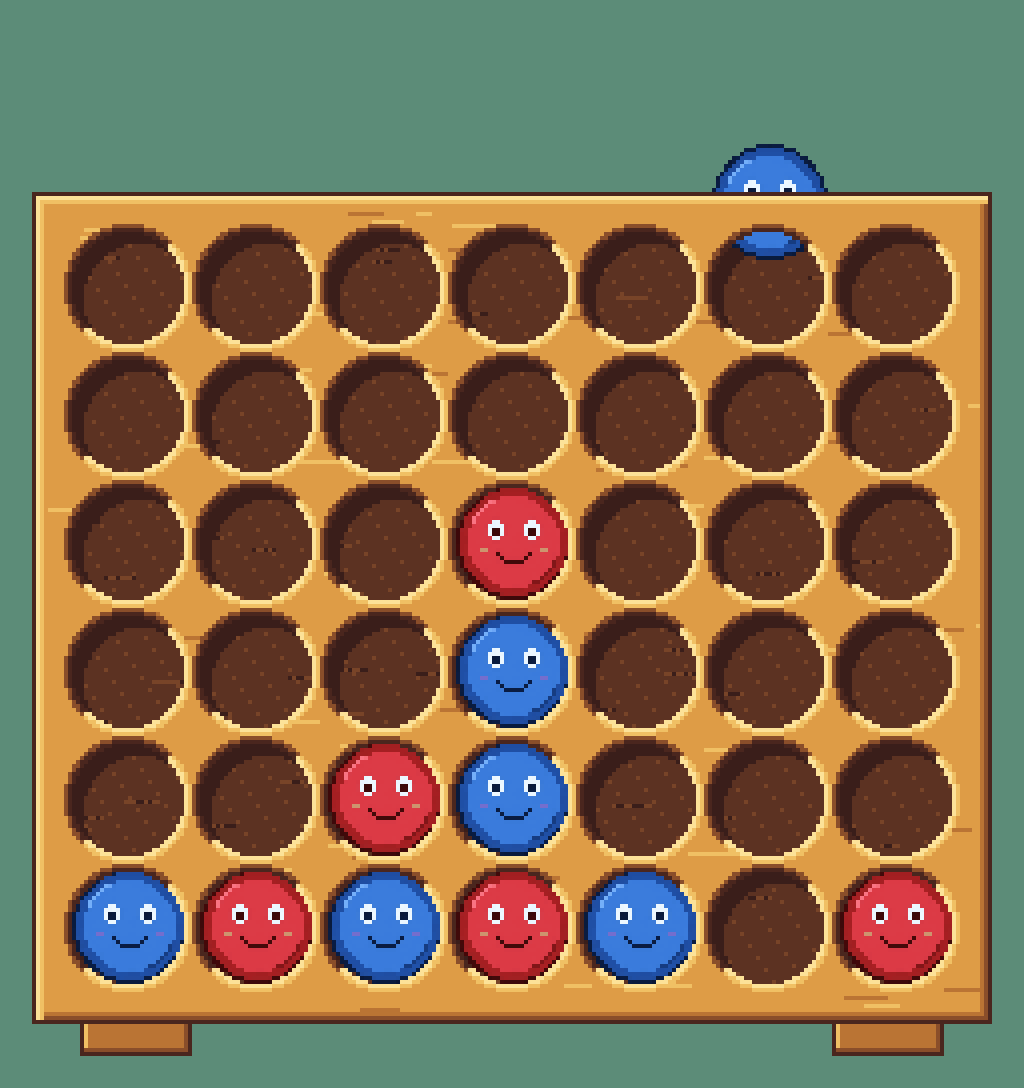
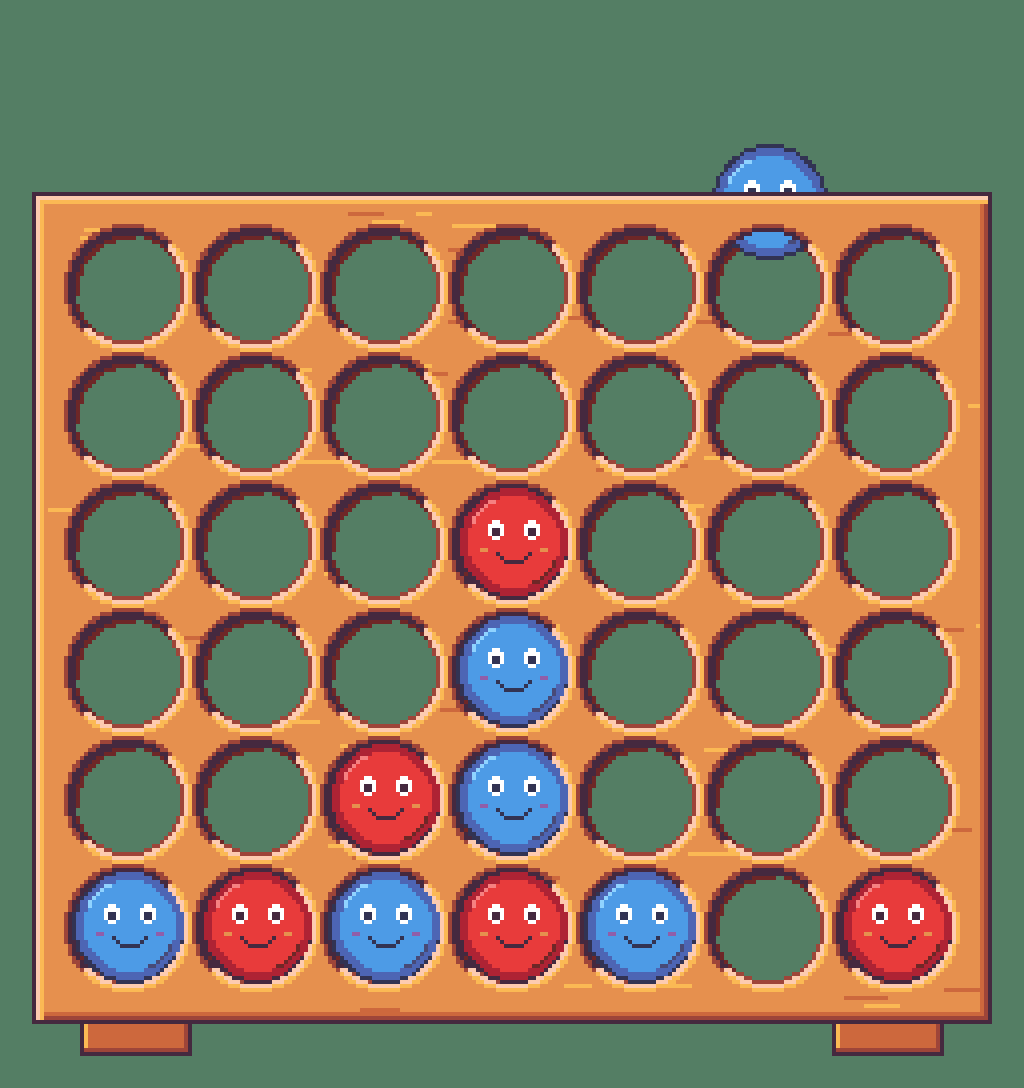
Art A: Resurrect 64 board, transparent holes with shaded rim
Honey wood ramp moved onto Resurrect 64. The back layer is now transparent
except a 1-2 px inner wall inside each hole (shaded upper left, lit lower
right), so the biome background shows through empty holes.

diff --git a/art/board/make_board.py b/art/board/make_board.py
@@ -10,13 +10,19 @@ Outputs (game pixels, shown at whole-number scale on the 270x480 pixel layer):
 Layout: 7x6 grid of 32 px cells starting at GRID_ORIGIN (8, 8); hole centre of cell
 (c, r) = (8 + 32c + 16, 8 + 32r + 16); hole diameter 28 px. The panel is 240x208,
 plus 8 px feet below it that stand on the table. Light comes from the top left.
-Honey wood colours (Sean, 2026-11-11).
+Honey wood colours (Sean, 2026-11-11), all from Resurrect 64 (Art pass A, 2026-11-19).
+Holes are transparent in both layers so the biome background shows through
+(Sean, 2026-11-13); the back layer only holds a thin shaded inner wall in each hole.
 """
 import math
 import os
 import random
+import sys
 
 from PIL import Image
+
+sys.path.insert(0, os.path.join(os.path.dirname(os.path.abspath(__file__)), "..", "palette"))
+from resurrect64 import hexc  # noqa: E402
 
 COLS, ROWS, CELL = 7, 6, 32
 BORDER = 8
@@ -27,17 +33,17 @@ FOOT_H = 8
 W, H = PANEL_W, PANEL_H + FOOT_H  # 240 x 216
 HOLE_R = 14.0
 
-# Honey wood ramp, dark -> light (hue shifts warmer/redder in shadow).
-OUTLINE = (74, 38, 30, 255)
-SHADOW = (138, 78, 42, 255)
-MID = (186, 116, 52, 255)
-BASE = (222, 156, 70, 255)
-LIGHT = (240, 192, 100, 255)
-HIGHLIGHT = (252, 226, 152, 255)
-# Back panel: the inside of the board, seen through the holes behind the Goobs.
-BACK_DEEP = (58, 30, 26, 255)
-BACK_DARK = (92, 50, 34, 255)
-BACK_MID = (120, 68, 40, 255)
+# Honey wood ramp, dark -> light (hue shifts warmer/redder in shadow), Resurrect 64.
+OUTLINE = hexc("45293f")
+SHADOW = hexc("9e4539")
+MID = hexc("cd683d")
+BASE = hexc("e6904e")
+LIGHT = hexc("fbb954")
+HIGHLIGHT = hexc("fdcbb0")
+# Inner wall of each hole, seen behind the Goobs: shaded on the upper left, lit on the lower right.
+WALL_DEEP = hexc("45293f")
+WALL_DARK = hexc("6e2727")
+WALL_LIT = hexc("9e4539")
 
 OUT_DIR = "assets/board"
 PREVIEW = "art/board/board_preview4x.png"
@@ -121,30 +127,25 @@ def make_front():
 
 
 def make_back():
+    """Transparent except a 1-2 px inner wall just inside each hole's rim."""
     img = Image.new("RGBA", (W, H), (0, 0, 0, 0))
     px = img.load()
-    rng = random.Random(9)
-    for y in range(1, PANEL_H - 1):
-        for x in range(1, PANEL_W - 1):
-            px[x, y] = BACK_MID if (x * 7 + y * 3) % 23 == 0 else BACK_DARK
-    # Grain on the back wall, darker.
-    for _ in range(90):
-        y, x, n = rng.randrange(2, PANEL_H - 2), rng.randrange(2, PANEL_W - 2), rng.randrange(4, 12)
-        for i in range(n):
-            if x + i < PANEL_W - 1:
-                px[x + i, y] = BACK_MID if rng.random() < 0.5 else BACK_DEEP
-    # The front lip casts a crescent shadow on the back wall inside each hole (upper left).
     for r in range(ROWS):
         for c in range(COLS):
             cx, cy = hole_centre(c, r)
             for y in range(int(cy - HOLE_R), int(cy + HOLE_R) + 1):
                 for x in range(int(cx - HOLE_R), int(cx + HOLE_R) + 1):
                     dx, dy = x + 0.5 - cx, y + 0.5 - cy
-                    if math.hypot(dx, dy) >= HOLE_R:
+                    d = math.hypot(dx, dy)
+                    if d >= HOLE_R or d < HOLE_R - 2:
                         continue
-                    # Inside the hole but outside the same circle shifted 3 px down-right = crescent.
-                    if math.hypot(dx - 3, dy - 3) >= HOLE_R:
-                        px[x, y] = BACK_DEEP
+                    a = math.atan2(dy, dx)
+                    # 1 = facing the lower right (lit), -1 = facing the upper left (in shadow).
+                    facing = math.cos(a - math.pi / 4)
+                    if d >= HOLE_R - 1:
+                        px[x, y] = WALL_LIT if facing > 0.2 else WALL_DARK if facing > -0.5 else WALL_DEEP
+                    elif facing < -0.6:
+                        px[x, y] = WALL_DARK
     return img
 
 
@@ -156,7 +157,7 @@ def preview(back, front):
     # (col, row from bottom, side)
     placed = [(0, 0, "b"), (1, 0, "r"), (2, 0, "b"), (3, 0, "r"), (3, 1, "b"), (2, 1, "r"),
               (3, 2, "b"), (4, 0, "b"), (3, 3, "r"), (6, 0, "r")]
-    bg = (92, 140, 120, 255)
+    bg = hexc("547e64")
     canvas = Image.new("RGBA", (W + 16, H + 40 + 16), bg)
     ox, oy = 8, 8 + 40
     canvas.alpha_composite(back, (ox, oy))
